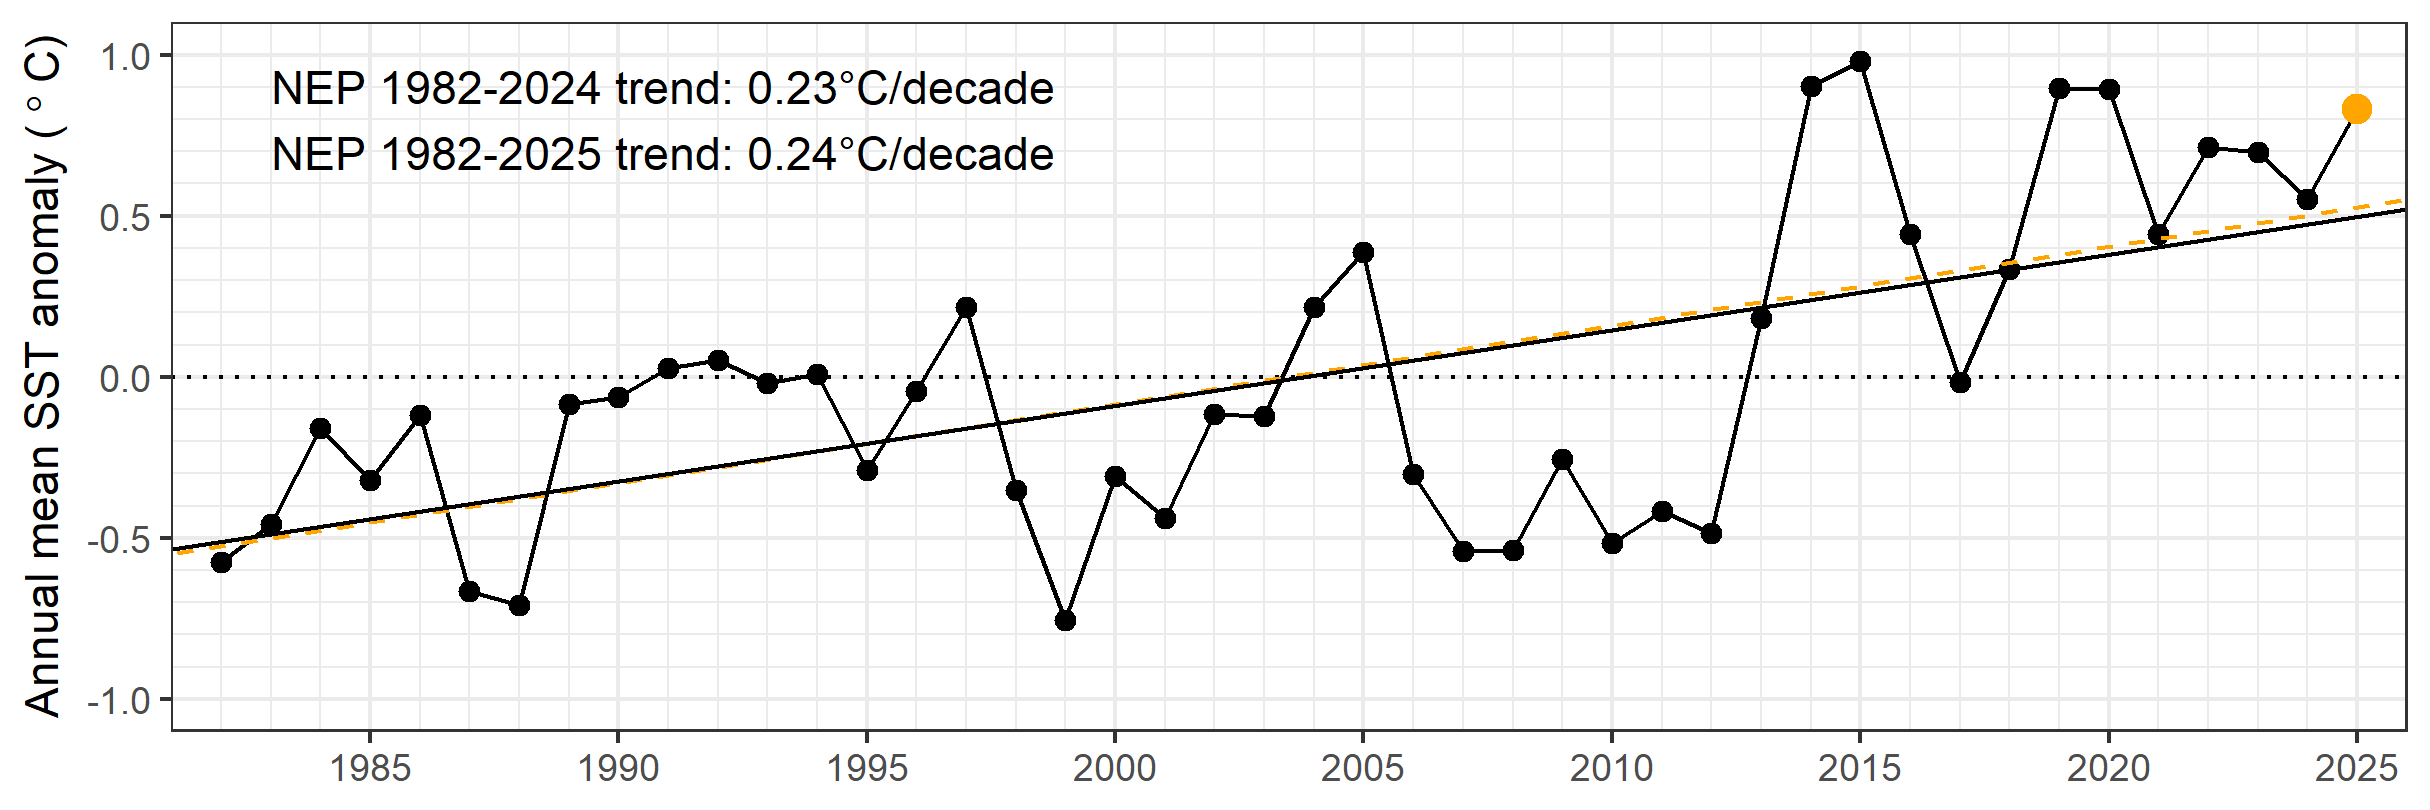
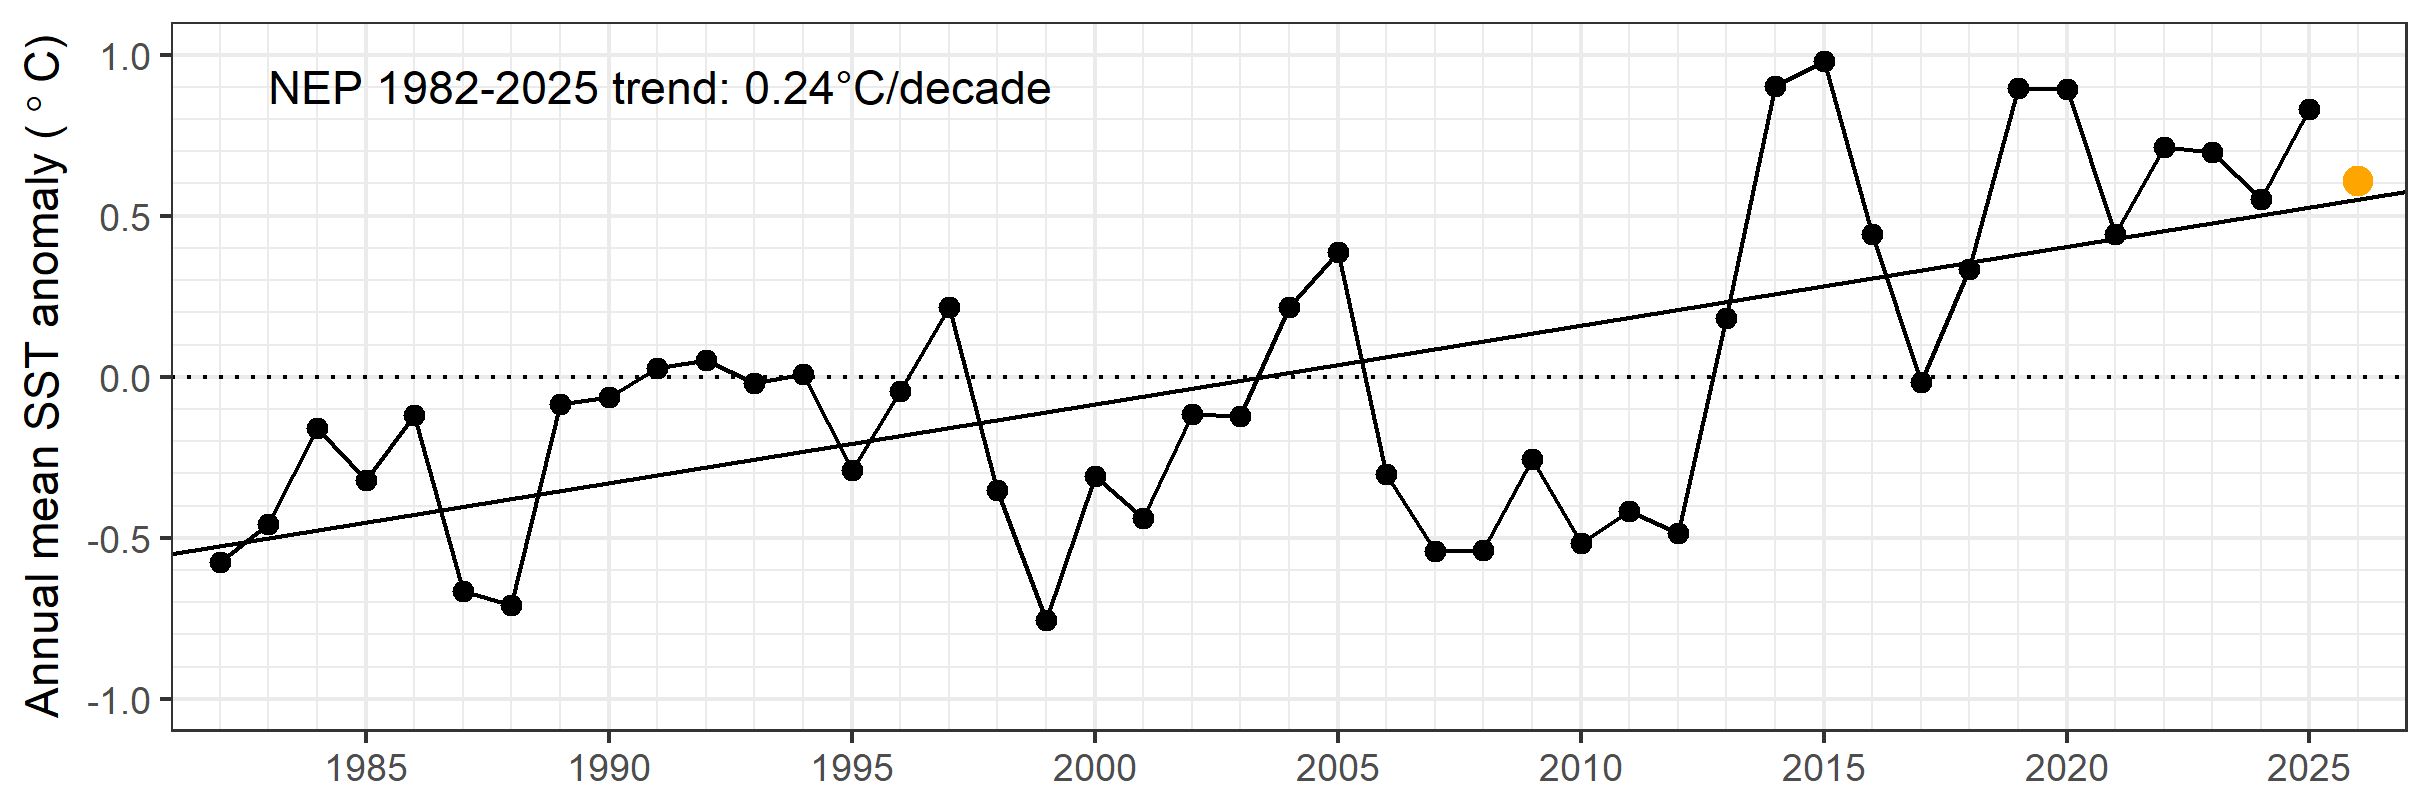
Built site for gh-pages

diff --git a/index.html b/index.html
@@ -7,7 +7,7 @@
 <meta name="viewport" content="width=device-width, initial-scale=1.0, user-scalable=yes">
 
 <meta name="author" content="Andrea Hilborn, Charles Hannah, and Lu Guan">
-<meta name="dcterms.date" content="2026-01-13">
+<meta name="dcterms.date" content="2026-01-27">
 
 <title>Sea surface temperature in the Northeast Pacific – Pacific SST Monitoring</title>
 <style>
@@ -131,9 +131,6 @@ div.csl-indent {
 </div>
       </div> <!-- /container-fluid -->
     </nav>
-  <div id="quarto-announcement" data-announcement-id="f883ca9267a83354a89ceedf8b86ea97" class="alert alert-info hidden"><i class="bi bi-info-circle quarto-announcement-icon"></i><div class="quarto-announcement-content">
-<p><strong>Note</strong> that this week’s information is delayed due to an NCEI system outage</p>
-</div><i class="bi bi-x-lg quarto-announcement-action"></i></div>
 </header>
 <!-- content -->
 <div id="quarto-content" class="quarto-container page-columns page-rows-contents page-layout-full page-navbar">
@@ -181,7 +178,7 @@ div.csl-indent {
     <div>
     <div class="quarto-title-meta-heading">Published</div>
     <div class="quarto-title-meta-contents">
-      <p class="date">January 13, 2026</p>
+      <p class="date">January 27, 2026</p>
     </div>
   </div>
   
@@ -286,7 +283,7 @@ Click here to view region map
 </section>
 <section id="how-does-sst-in-the-northeast-pacific-compare-between-years" class="level2">
 <h2 class="anchored" data-anchor-id="how-does-sst-in-the-northeast-pacific-compare-between-years">How does SST in the Northeast Pacific compare between years?</h2>
-<p>The average SST and SST anomaly of the NEP is shown below, beginning in 1981. A few years have been selected for further emphasis. 2014 and 2015, years of “the Blob”, are shown in <span style="color:magenta;">pink</span> and <span style="color:purple;">purple</span>. 2019, another anomalously warm year occurring during an El Nino, is shown in <span style="color:cyan;">cyan</span>. The most recent three years, which have also been some of the warmest on record, are shown as <span style="color:orange;">orange</span> (2023), <span style="color:brown;">brown</span> (2024), and <span style="color:red;">red</span> (2025).</p>
+<p>The average SST and SST anomaly of the NEP is shown below, beginning in 1981. A few years have been selected for further emphasis. 2014 and 2015, years of “the Blob”, are shown in <span style="color:magenta;">pink</span> and <span style="color:purple;">purple</span>. 2019, another anomalously warm year occurring during an El Nino, is shown in <span style="color:cyan;">cyan</span>. The most recent three years, which have also been some of the warmest on record, are shown as <span style="color:orange;">orange</span> (2023), <span style="color:brown;">brown</span> (2024), and <span style="color:red;">red</span> (2025). 2026 progress is shown in <span style="color:black;"><strong>black</strong></span>.</p>
 <p><img src="./figures/NEP_progress.png" width="90%"></p>
 <section id="rankings-of-10-warmest-years-since-1981" class="level3">
 <h3 class="anchored" data-anchor-id="rankings-of-10-warmest-years-since-1981">Rankings of 10 warmest years since 1981</h3>
@@ -319,7 +316,7 @@ Click here to view region map
 <ul class="nav nav-tabs" role="tablist"><li class="nav-item" role="presentation"><a class="nav-link active" id="tabset-2-1-tab" data-bs-toggle="tab" data-bs-target="#tabset-2-1" role="tab" aria-controls="tabset-2-1" aria-selected="true">Mean annual SST</a></li><li class="nav-item" role="presentation"><a class="nav-link" id="tabset-2-2-tab" data-bs-toggle="tab" data-bs-target="#tabset-2-2" role="tab" aria-controls="tabset-2-2" aria-selected="false">Mean annual SST anomaly</a></li></ul>
 <div class="tab-content">
 <div id="tabset-2-1" class="tab-pane active" role="tabpanel" aria-labelledby="tabset-2-1-tab">
-<p><em>The points indicate the mean SST by year, with 2025 indicated in <span style="color:orange;">orange</span>.</em></p>
+<p><em>The points indicate the mean SST by year, with 2026 indicated in <span style="color:orange;">orange</span>.</em></p>
 <div class="quarto-figure quarto-figure-center">
 <figure class="figure">
 <p><img src="./figures/NEP_annual_mean_trend.png" class="img-fluid quarto-figure quarto-figure-center figure-img"></p>
@@ -327,7 +324,7 @@ Click here to view region map
 </div>
 </div>
 <div id="tabset-2-2" class="tab-pane" role="tabpanel" aria-labelledby="tabset-2-2-tab">
-<p><em>The points indicate the mean SST anomaly by year, with 2025 indicated in <span style="color:orange;">orange</span>.</em></p>
+<p><em>The points indicate the mean SST anomaly by year, with 2026 indicated in <span style="color:orange;">orange</span>.</em></p>
 <div class="quarto-figure quarto-figure-center">
 <figure class="figure">
 <p><img src="./figures/NEP_annual_mean_anomaly_trend.png" class="img-fluid quarto-figure quarto-figure-center figure-img"></p>
@@ -377,7 +374,7 @@ Click here to view 1991-2020 buoy surface temperature climatologies
 <li><strong>Data access:</strong> CIOOS Pacific ERDDAP <a href="https://data.cioospacific.ca/erddap/info/DFO_MEDS_BUOYS/index.html">DFO_MEDS_BUOYS</a> and <a href="https://data.cioospacific.ca/erddap/info/ECCC_MSC_BUOYS/index.html">ECCC_MSC_BUOYS</a> records. The DFO_MEDS_BUOYS record has a detailed quality control layer outlined in <span class="citation" data-cites="Kellogg2021">Kellogg et al. (<a href="#ref-Kellogg2021" role="doc-biblioref">2021</a>)</span> which <strong>ceased in December, 2023</strong></li>
 <li><strong>Climatology period:</strong> 1991–2020</li>
 </ul>
-<p>The white lines outlined in black are daily mean observations from 2025. The buoy climatological mean (grey line) is plotted with 10th and 90th percentiles (grey shading). The climatology spans 1991–2020, though some buoys began collecting data later: <code>C46146 Halibut Bank</code>, <code>C46131 Sentry Shoal</code>, <code>C46147 South Moresby</code> and <code>C46132 South Brooks</code>.</p>
+<p>The white lines outlined in black are daily mean observations from 2026. The buoy climatological mean (grey line) is plotted with 10th and 90th percentiles (grey shading). The climatology spans 1991–2020, though some buoys began collecting data later: <code>C46146 Halibut Bank</code>, <code>C46131 Sentry Shoal</code>, <code>C46147 South Moresby</code> and <code>C46132 South Brooks</code>.</p>
 <p>There are no climatologies for <code>C46303 South Georgia Strait</code> and <code>C46304 Entrance English Bay</code> as they were installed in 2019. <strong>C46147 South Moresby and C46183 North Hecate Strait are currently offline.</strong></p>
 <div class="quarto-layout-panel" data-layout-ncol="2">
 <div class="quarto-layout-row">

diff --git a/about.html b/about.html
@@ -109,9 +109,6 @@ ul.task-list li input[type="checkbox"] {
 </div>
       </div> <!-- /container-fluid -->
     </nav>
-  <div id="quarto-announcement" data-announcement-id="f883ca9267a83354a89ceedf8b86ea97" class="alert alert-info hidden"><i class="bi bi-info-circle quarto-announcement-icon"></i><div class="quarto-announcement-content">
-<p><strong>Note</strong> that this week’s information is delayed due to an NCEI system outage</p>
-</div><i class="bi bi-x-lg quarto-announcement-action"></i></div>
 </header>
 <!-- content -->
 <div id="quarto-content" class="quarto-container page-columns page-rows-contents page-layout-full page-navbar">
